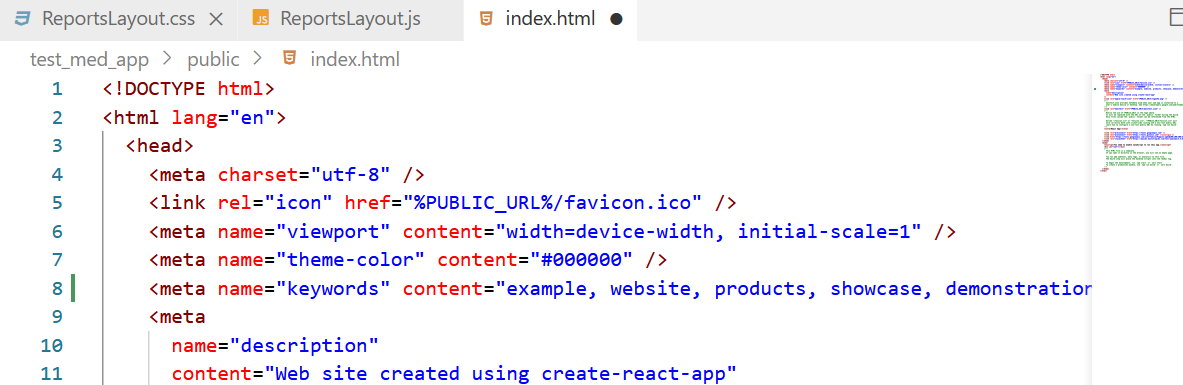
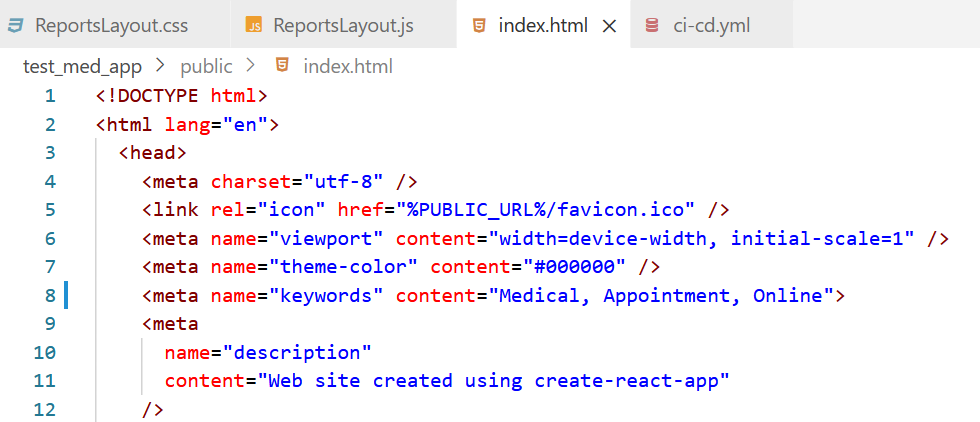
seo fixed

diff --git a/public/index.html b/public/index.html
@@ -5,7 +5,7 @@
     <link rel="icon" href="%PUBLIC_URL%/favicon.ico" />
     <meta name="viewport" content="width=device-width, initial-scale=1" />
     <meta name="theme-color" content="#000000" />
-    <meta name="keywords" content="example, website, products, showcase, demonstration">
+    <meta name="keywords" content="Medical, Appointment, Online">
     <meta
       name="description"
       content="Web site created using create-react-app"
